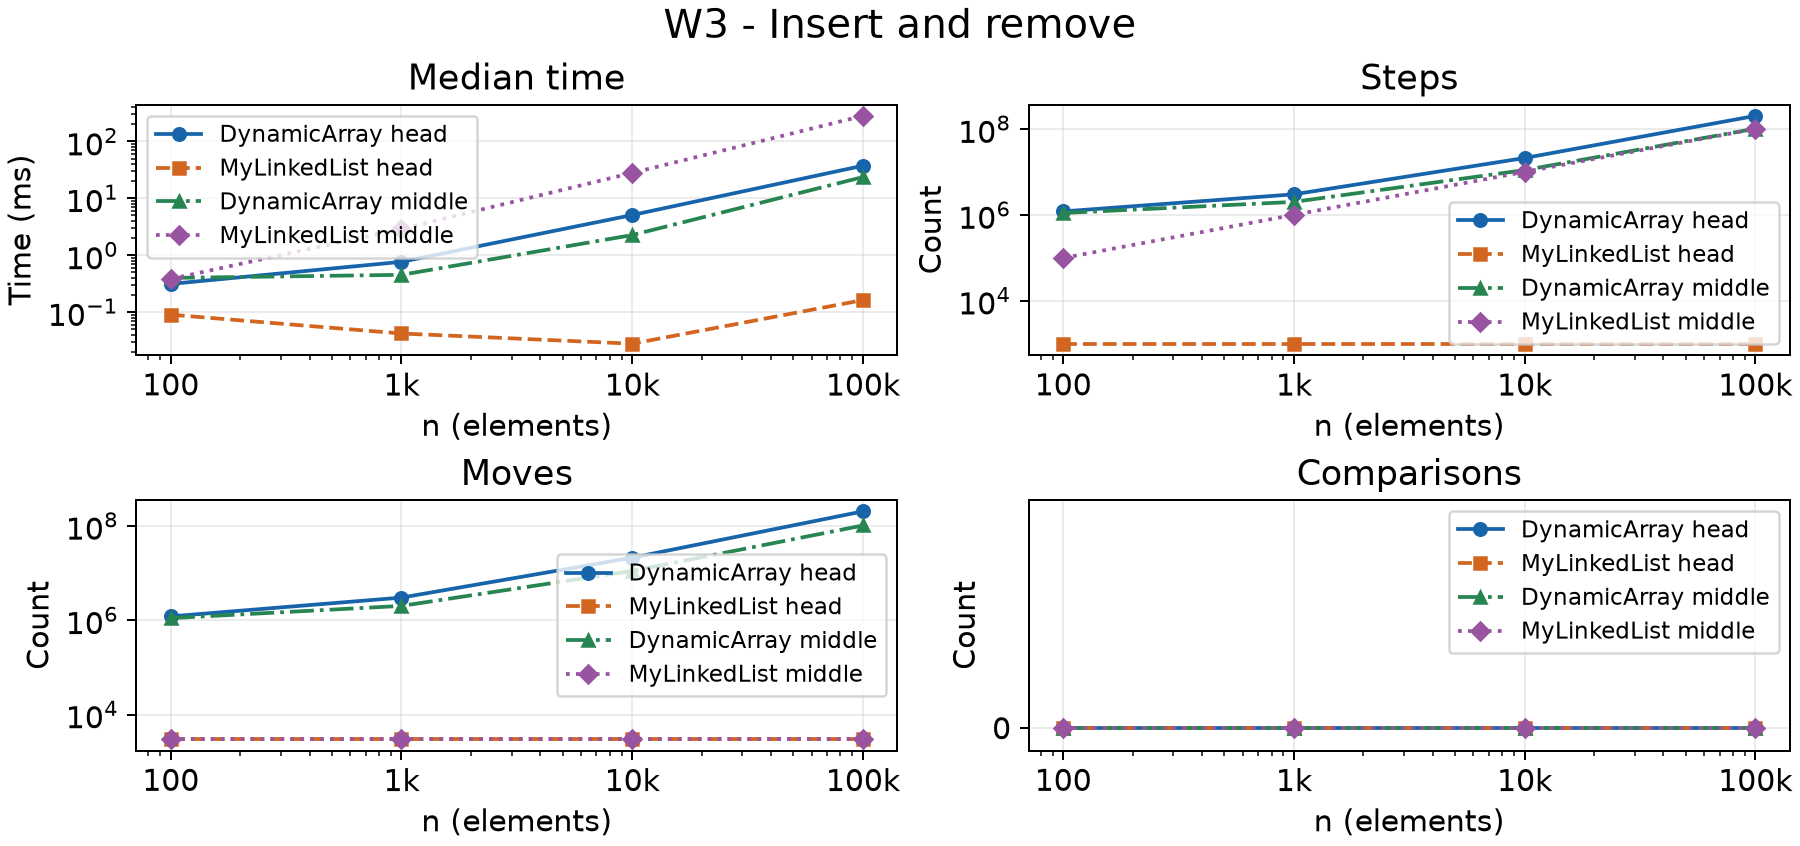
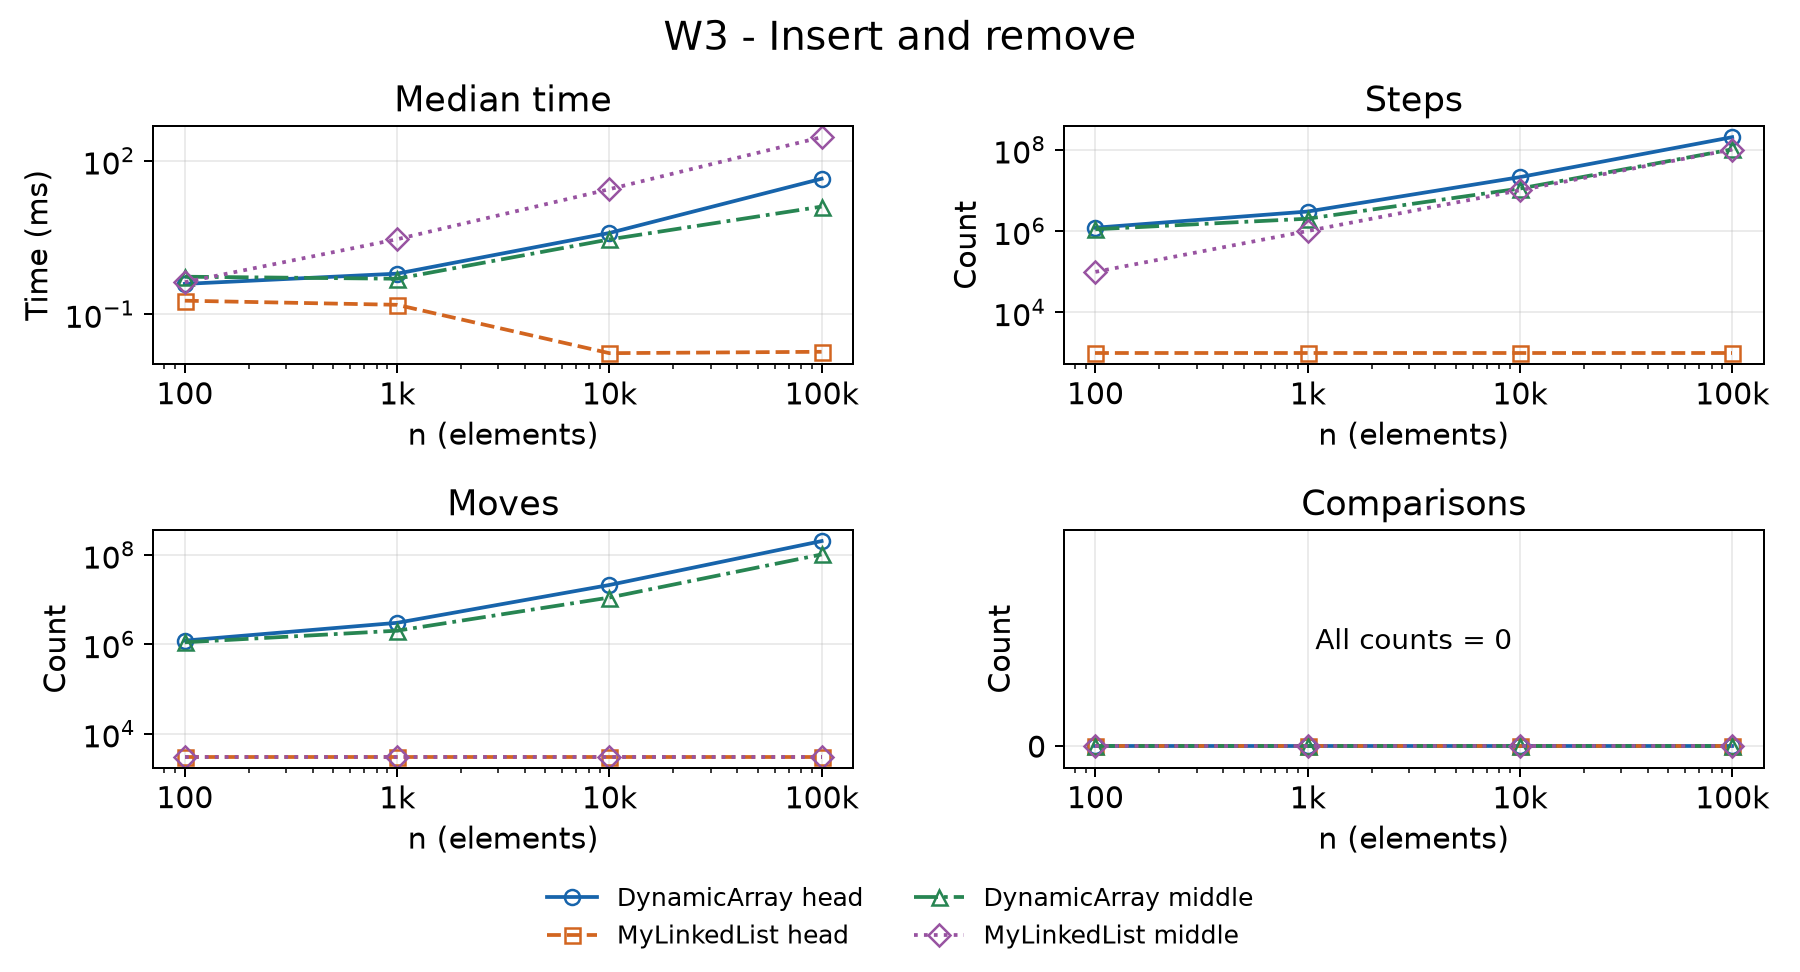
fix(report): clarify bounds and refresh verified plots and timings

diff --git a/plot_results.py b/plot_results.py
@@ -13,7 +13,8 @@ colors = ["#1764ab", "#d26520", "#278552", "#9853a1"]
 for workload, title in titles.items():
     selected = [row for row in rows if row["workload"] == workload]
     groups = list(dict.fromkeys((row["structure"], row["variant"]) for row in selected))
-    figure, axes = plt.subplots(2, 2, figsize=(10, 4.7), layout="constrained")
+    figure, axes = plt.subplots(2, 2, figsize=(10, 5.4))
+    figure.subplots_adjust(left=0.085, right=0.98, top=0.87, bottom=0.21, hspace=0.7, wspace=0.3)
     figure.suptitle(workload + " - " + title, fontsize=16)
     for axis, metric in zip(axes.flat, ["time_ms", "steps", "moves", "comparisons"]):
         for i, (structure, variant) in enumerate(groups):
@@ -21,7 +22,7 @@ for workload, title in titles.items():
             label = structure if variant == "-" else structure + " " + variant
             axis.plot([int(row["n"]) for row in values], [float(row[metric]) for row in values],
                       marker=["o", "s", "^", "D"][i], color=colors[i], label=label,
-                      linestyle=["-", "--", "-.", ":"][i], markersize=5)
+                      linestyle=["-", "--", "-.", ":"][i], markersize=6, markerfacecolor="none")
         axis.set_xscale("log")
         axis.set_xticks([100, 1000, 10000, 100000], ["100", "1k", "10k", "100k"])
         axis.set_xlabel("n (elements)")
@@ -32,7 +33,9 @@ for workload, title in titles.items():
         else:
             axis.set_ylim(-0.1, 1)
             axis.set_yticks([0])
+            axis.text(0.5, 0.5, "All counts = 0", transform=axis.transAxes, ha="center", fontsize=11)
         axis.grid(True, alpha=0.25)
-        axis.legend(loc="best")
+    handles, labels = axes[0, 0].get_legend_handles_labels()
+    figure.legend(handles, labels, loc="lower center", ncol=2, frameon=False, fontsize=10)
     figure.savefig("results/plots/" + workload.lower() + ".png", dpi=180)
     plt.close(figure)
